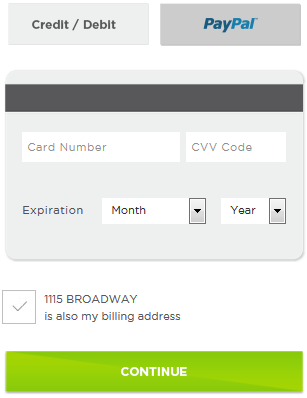
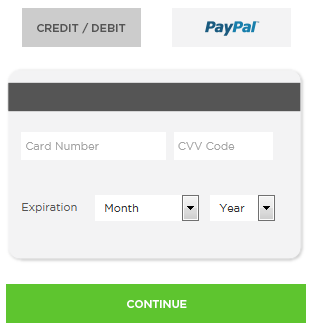
menu, grid leftnav, home and landing images

diff --git a/skin/frontend/new-yogasmoga/yogasmoga-theme/css/ys-style.css b/skin/frontend/new-yogasmoga/yogasmoga-theme/css/ys-style.css
@@ -638,7 +638,7 @@ table.box-desc-dvdr.smogibucks{margin-top: 15px; margin-bottom: -5px;}
 ul.checkout-cont{margin: 0; padding: 0; width: 100%; list-style: none; margin:20px 0 0;}
 ul.checkout-cont > li{float:left; margin: auto; border-left:1px solid #fff; min-height: 600px; padding: 62px 0 0; position: relative; width: 33.2%;}
 ul.checkout-cont > li.active{background: url('../images/border-gery.jpg') no-repeat center top;}
-ul.checkout-cont > li .ovrlay-bg{display: block; background: #d6d6d6; height: 100%; width: 100%; position: absolute; top: 0; left: 0; opacity: 0.5;}
+ul.checkout-cont > li .ovrlay-bg{display: block; background: #e2e1e1; height: 100%; width: 100%; position: absolute; top: 0; left: 0; opacity: 0.5;}
 ul.checkout-cont > li.active .ovrlay-bg{display: none;}
 .checkout-details{padding: 38px 20px 20px; display: block;}
 .headD{font: 30px/40px itcavantgardeprobk, Arial; text-align:center; text-transform:uppercase; margin-bottom:50px;}
@@ -1439,7 +1439,7 @@ div.men-size-chart table tr:first-child td{width: 13.975155279503105590062111801
     text-decoration: none;
     text-transform: uppercase;
     width: 60%;
-    margin: 20px 0 0;
+    margin: 18px 0 0;
     padding: 0 0 0 45px;    
 }
 
@@ -2043,4 +2043,14 @@ ul.main-menu2 a.main-heading,  x:-moz-any-link {height:35px;}
 
 #checkout-shipping-address-new label[for="shipping:save_in_address_book"] {
     font-size: 12px !important;
+}
+
+#ordertotal {
+    font-family: gothammedium !important;
+}
+
+#ordersummary td.divider{
+    background: none;
+    border-bottom: 1px solid #fff;
+    height: 10px;
 }

diff --git a/skin/frontend/new-yogasmoga/yogasmoga-theme/css/checkout.css b/skin/frontend/new-yogasmoga/yogasmoga-theme/css/checkout.css
@@ -303,15 +303,15 @@ div#shippingsummary
 }
 
 div#ordersummary {
-    font: 14px/28px gothambook;
+    font: 12px/21px gothambook;
     margin: auto;
     text-align: left;
     width: ;
-    min-height: 180px;
+    min-height: 170px;
 }
 div#ordersummary span.anchor, div#shippingsummary span.anchor
 {
-    font: 14px gothambook;
+    font: 11px/21px gothammedium;
     white-space: nowrap;
 }
 div#ordersummary table, div#shippingsummary table
@@ -341,8 +341,8 @@ div#ordersummary table td, div#shippingsummary table td
 }
 div#ordersummary table tr.ordertotal td, div#shippingsummary table tr.ordertotal td
 {
-    padding-top : 15px;
-    padding-bottom : 15px;
+    padding-top : 10px;
+    padding-bottom : 0;
 }
 div#ordersummary table td.divider, div#shippingsummary table td.divider
 {
@@ -532,15 +532,16 @@ div#coshipping, div#cobilling {
 body.checkout-onepage-index li.form-alt {
     background: none repeat scroll 0 0 #ededed;
     display: block;
-    font: 15px/24px gothammedium;
-    margin: -16px auto 25px;
+    font: 13px/21px gothambook;
+    margin: -20px auto 18px;
     min-height: inherit;
-    padding: 20px 0;
-    width: 99.7%;
+    padding: 20px;
+    width: 86.5%;
+    text-align: left;
 }
 div.paymentmethoddiv {
     float: left;
-    margin: 0 0 20px;
+    margin: 0 0 18px;
     overflow: hidden;
     text-align: center;
     width: 50%;
@@ -713,7 +714,7 @@ select#billing-address-select{
 .billingAdd {
     display: inline-block;
     width: 100%;
-    margin: 20px 0;
+    margin: 14px 0;
 }
 
 #cobillingaddress{

diff --git a/skin/frontend/new-yogasmoga/yogasmoga-theme/css/ysmoga.css b/skin/frontend/new-yogasmoga/yogasmoga-theme/css/ysmoga.css
@@ -719,7 +719,7 @@ html[xmlns] .overridefix {
 }
 
 .productCont .prod-img{
-    height: 340px;
+    height: 338px;
 }
 
 .chat-status{
@@ -856,6 +856,25 @@ ul.tr-menu > li.free-shipping {
 }
 .intouchCheckbox input[type="checkbox"]:checked + label {
     background: url("../images/new-elements/checkbox.jpg") no-repeat left -32px;
+}
+
+.checkShippingBox input[type="checkbox"],
+.checkBillingBox input[type="checkbox"] {
+    display: none;
+}
+.checkShippingBox input[type="checkbox"]+label,
+.checkBillingBox input[type="checkbox"]+label {    
+    background: url("../images/checkout/saveAddCheckbox.png") no-repeat top left;
+    cursor: pointer;
+    display: inline-block;
+    height: auto;
+    margin: 2px 0 0;
+    padding: 5px 0 6px 50px;
+    width: auto;
+}
+.checkShippingBox input[type="checkbox"]:checked + label,
+.checkBillingBox input[type="checkbox"]:checked + label {
+    background: url("../images/checkout/saveAddCheckbox.png") no-repeat left -32px;
 }
 
 .signinDialog .err-msg {

diff --git a/app/code/local/Mycustommodules/Mycheckout/controllers/MycartController.php b/app/code/local/Mycustommodules/Mycheckout/controllers/MycartController.php
@@ -456,26 +456,12 @@ class Mycustommodules_Mycheckout_MycartController extends Mage_Core_Controller_F
             $tax = 0;
         }
         ?>
-        <span class="anchor">ORDER SUMMARY</span>
+        <span class="anchor dnone">ORDER SUMMARY</span>
         <table>
             <tr>
-                <td><?php echo $this->getcartcount().' Items'?><!-- Order Subtotal --></td>
+                <td><?php echo $this->getcartcount().' ITEMS'?><!-- Order Subtotal --></td>
                 <td id="ordersubtotal" class="total">
                     $<?php echo number_format((float)($subtotal), 2, '.', ''); ?>
-                </td>
-            </tr>            
-            <tr>
-                <td>Shipping</td>
-                <td id="shippingtotal" class="total">
-                    <?php $shippingcode = Mage::getSingleton('checkout/session')->getQuote()->getShippingAddress()->getShippingMethod();
-                        if($shippingcode == "")
-                            echo "-";
-                        else
-                            if($this->getShippingCost($shippingcode) == 0)
-                                echo "FREE";
-                            else
-                                echo "$".number_format((float)($this->getShippingCost($shippingcode)), 2, '.', '');
-                    ?>
                 </td>
             </tr>
             <?php
@@ -491,6 +477,20 @@ class Mycustommodules_Mycheckout_MycartController extends Mage_Core_Controller_F
                     <?php
                 }
             ?>
+            <tr>
+                <td>Shipping</td>
+                <td id="shippingtotal" class="total">
+                    <?php $shippingcode = Mage::getSingleton('checkout/session')->getQuote()->getShippingAddress()->getShippingMethod();
+                        if($shippingcode == "")
+                            echo "-";
+                        else
+                            if($this->getShippingCost($shippingcode) == 0)
+                                echo "FREE";
+                            else
+                                echo "$".number_format((float)($this->getShippingCost($shippingcode)), 2, '.', '');
+                    ?>
+                </td>
+            </tr>
             <?php
                 if($discount > 0)
                 {
@@ -508,7 +508,7 @@ class Mycustommodules_Mycheckout_MycartController extends Mage_Core_Controller_F
                 <td colspan="2" class="divider"></td>
             </tr>
             <tr class="ordertotal">
-                <td><span class="anchor">Grand Total</span></td>
+                <td><span class="anchor">GRAND TOTAL</span></td>
                 <td id="ordertotal" class="total">
                     <?php echo "$".number_format((float)($grandtotal), 2, '.', ''); ?>
                 </td>
